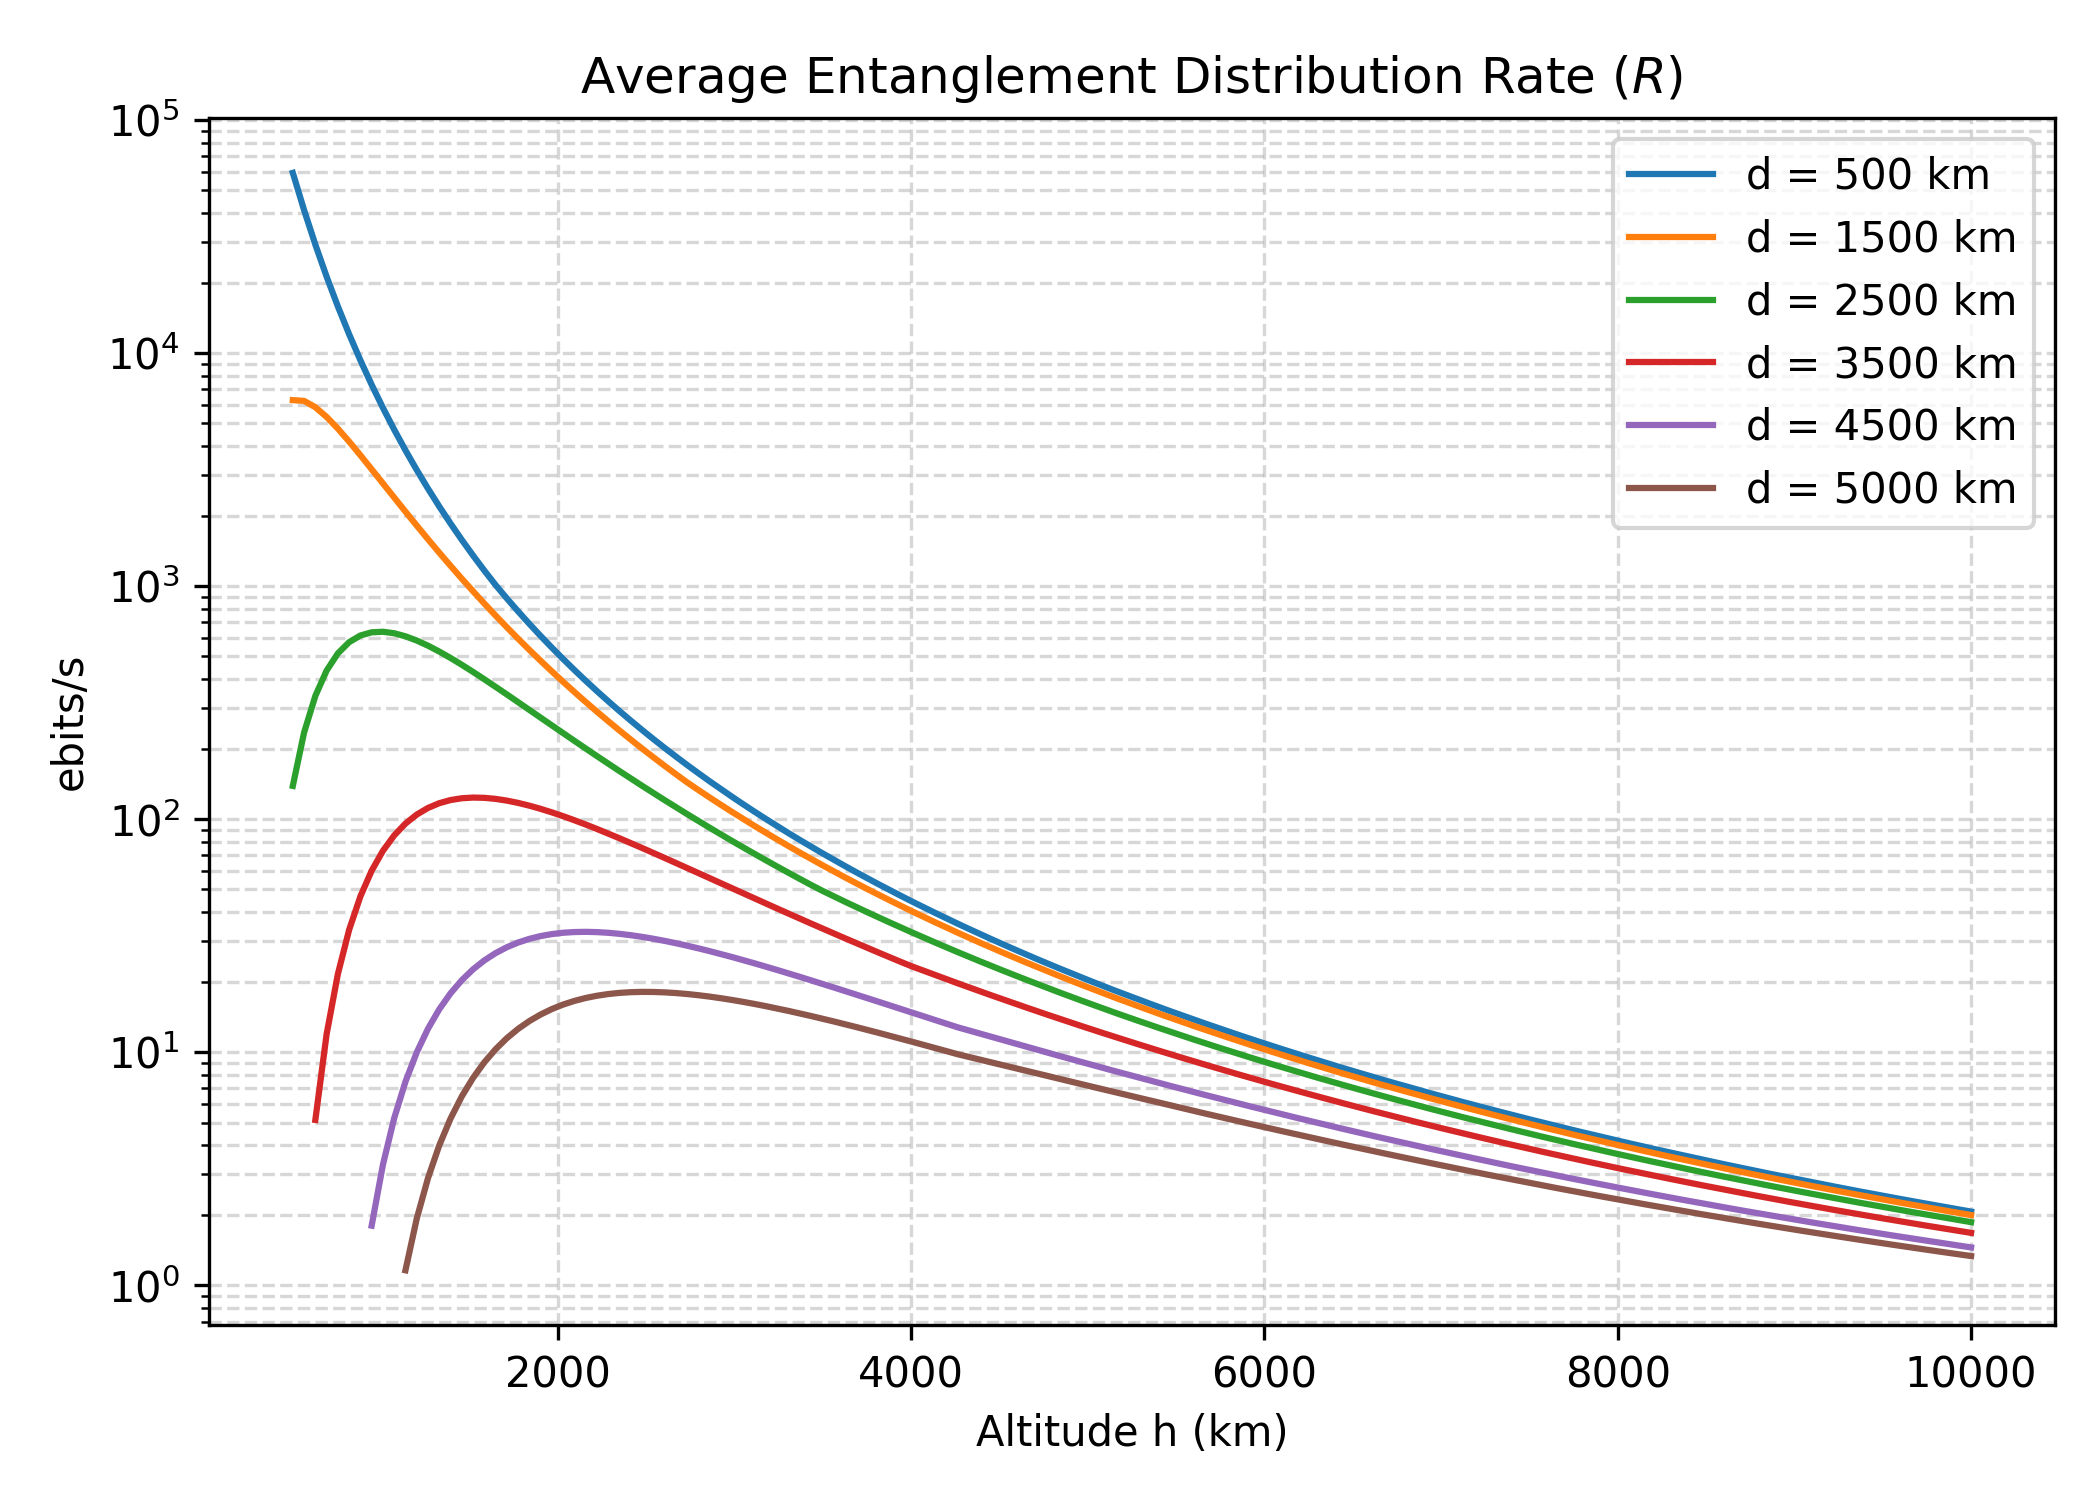
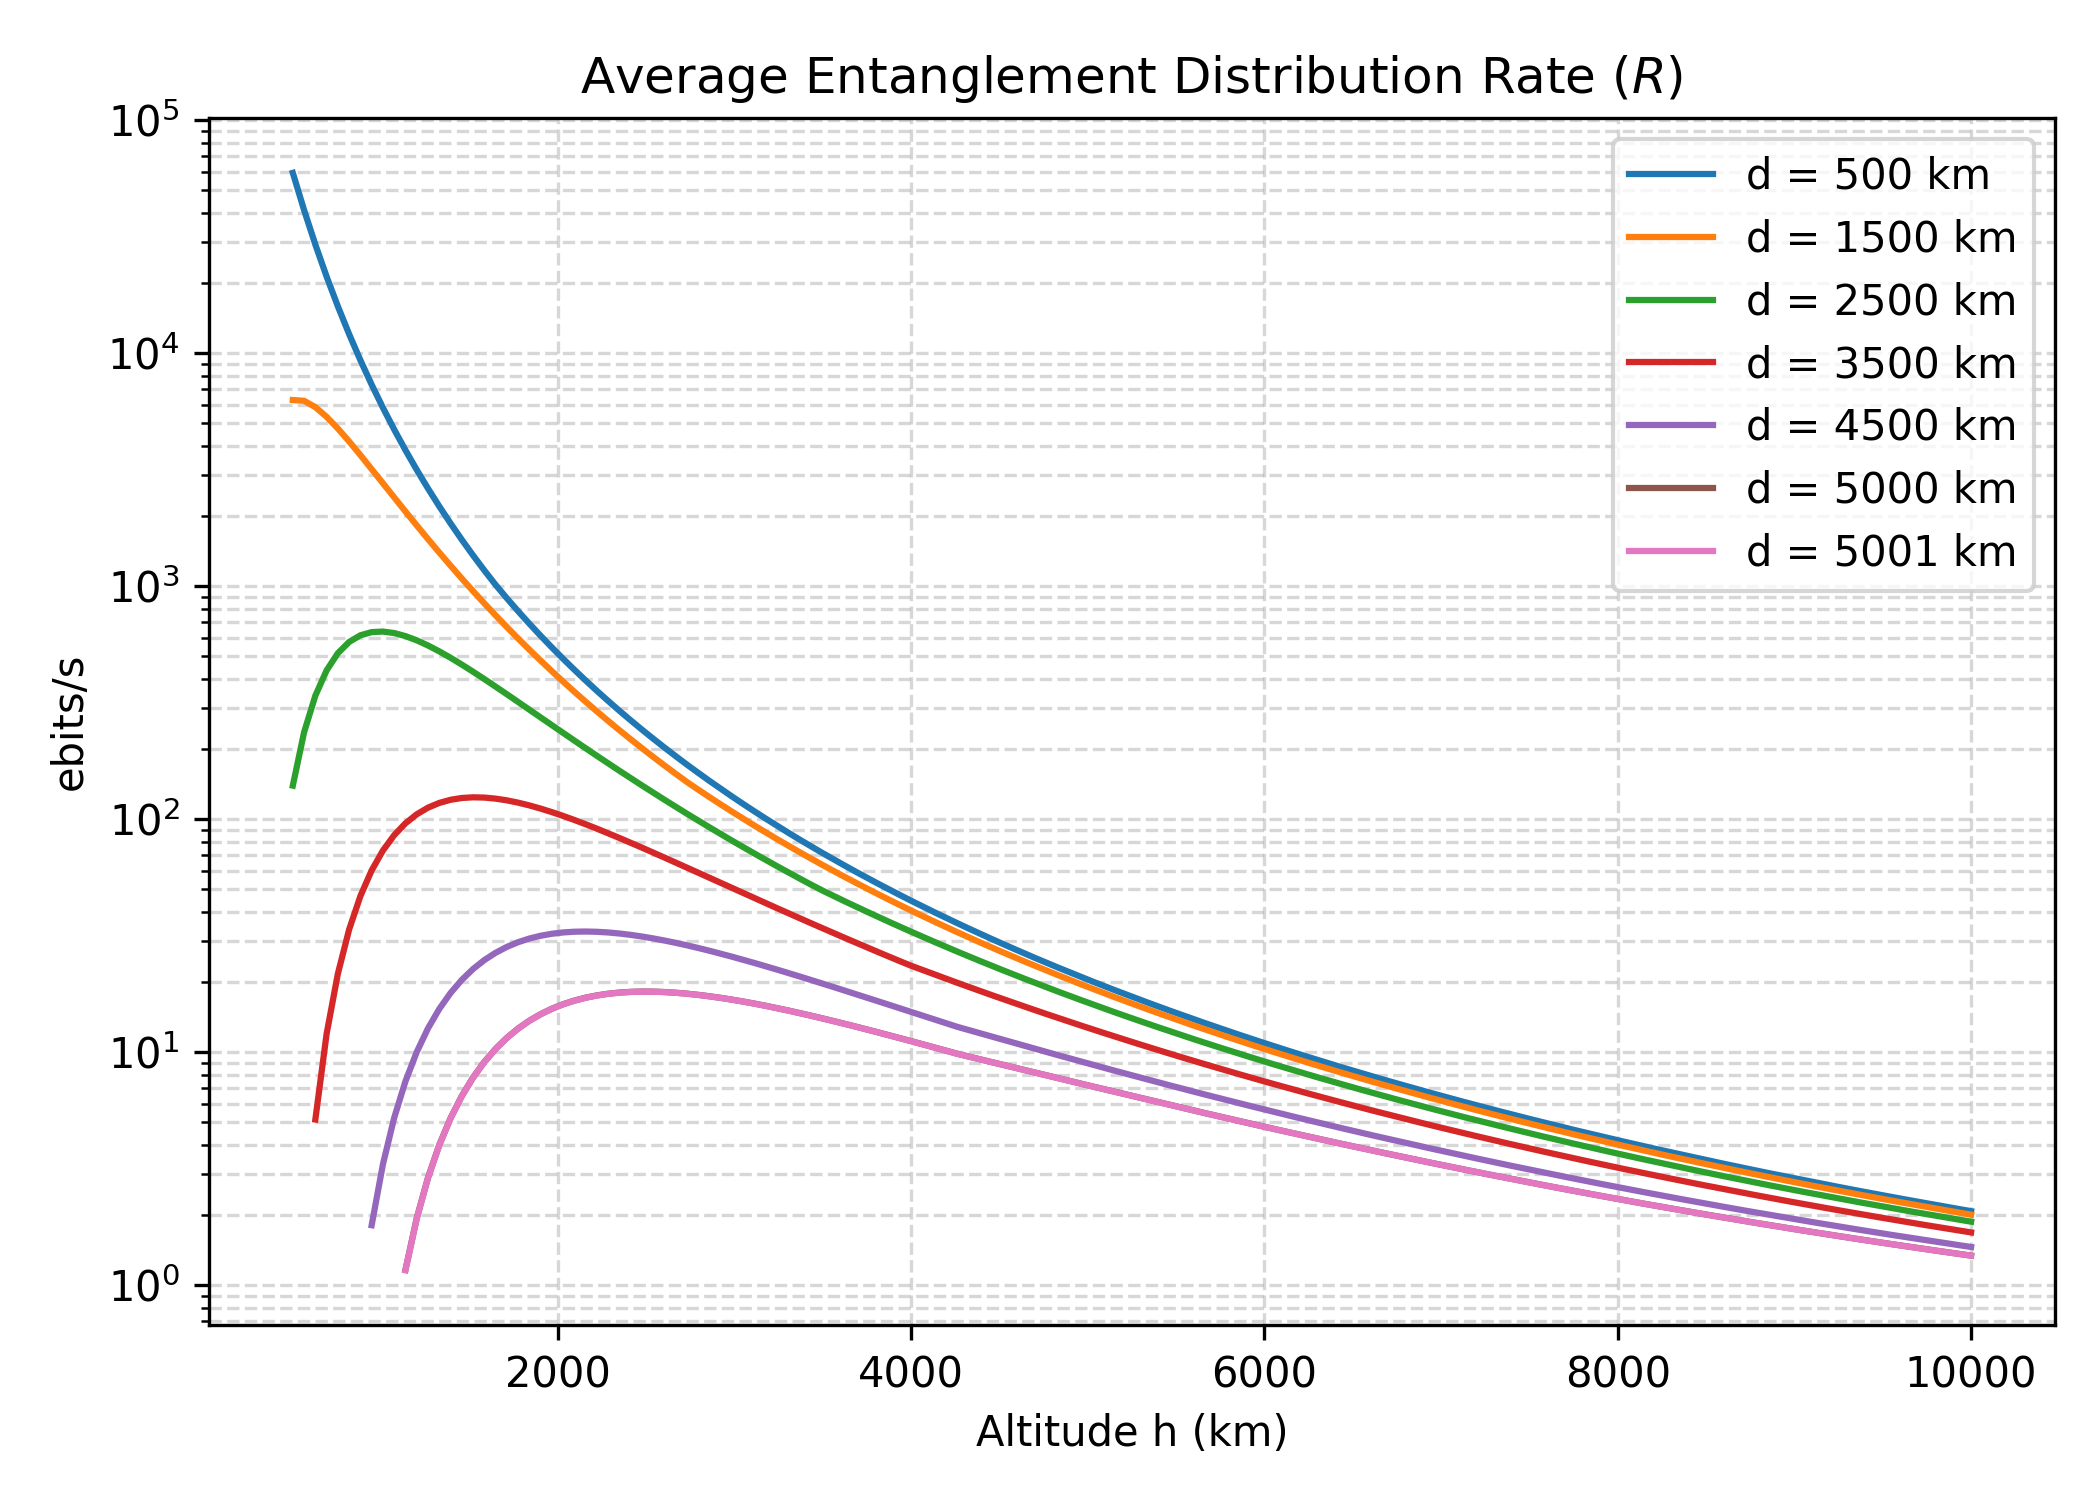
cleaned up code

diff --git a/main.py b/main.py
@@ -1,203 +1,187 @@
+import os
+import copy
+import warnings
 import numpy as np
 import matplotlib
+
 matplotlib.use('Agg')  # Required for headless execution in Docker
 import matplotlib.pyplot as plt
-import os
-import warnings
-import copy
-
 
 # Suppress expected numpy warnings when masking invalid orbital parameters
 warnings.filterwarnings("ignore", category=RuntimeWarning)
 
-# Create output directory
-os.makedirs('output', exist_ok=True)
-
-# --- Foundational Constants (Matched to Table 3 of the paper) ---
-RE = 6371.0  # Earth radius in km
-R_source = 1e9  # Raw entanglement generation rate (ebits/s)
-wavelength = 810e-9  # Optical transmission wavelength (m)
-w0 = 0.025  # Initial Gaussian beam waist (m)
-r_rec = 0.75  # Receiver telescope radius (m)
-eta_atm_zen = 0.5  # Baseline atmospheric transmittance at zenith
-elevation_cutoff = np.radians(10)  # Minimum elevation to avoid heavy atmospheric noise
-MIN_TRANSMITTANCE = 1e-9  # Equivalent to the 90 dB maximum optical loss limit
-ORBITAL_STEPS = 5000      # Number of discretization steps for the satellite pass
+# --- Physical & Simulation Constants ---
+RE = 6371.0  # Earth radius (km)
+R_SOURCE = 1e9  # Raw entanglement generation rate (ebits/s)
+WAVELENGTH = 810e-9  # Optical transmission wavelength (m)
+W0 = 0.025  # Initial Gaussian beam waist (m)
+R_REC = 0.75  # Receiver telescope radius (m)
+ETA_ATM_ZEN = 0.5  # Baseline atmospheric transmittance at zenith
+ELEVATION_CUTOFF = np.radians(10)  # Min elevation to avoid heavy atmospheric noise
+MIN_TRANSMITTANCE = 1e-9  # 90 dB maximum optical loss limit
+ORBITAL_STEPS = 5000  # Pass discretization resolution
 
 
 def calculate_metrics(h, d):
     """
-    Simulates the orbital mechanics and optical channel properties.
-    Returns: N_opt (minimum required satellites), C (cost-efficiency), and avg_rate (R).
+    Simulate orbital mechanics and optical channel properties for a satellite pass.
+    Returns: (N_opt, C, avg_rate)
     """
     Rs = RE + h
 
-    # Calculate the maximum angle a satellite can cover on the Earth's surface
-    val = (RE / Rs) * np.cos(elevation_cutoff)
+    # Max angle satellite can cover on Earth's surface
+    val = (RE / Rs) * np.cos(ELEVATION_CUTOFF)
     if val > 1.0:
         return np.nan, np.nan, np.nan
+
     sat_angle = np.arcsin(val)
-    theta_cov = np.pi / 2 - elevation_cutoff - sat_angle
-
+    theta_cov = np.pi / 2 - ELEVATION_CUTOFF - sat_angle
     d_ang = d / RE
-    if d_ang >= 2 * theta_cov:
-        return np.nan, np.nan, np.nan  # Geometric failure: cannot see both stations
 
-    # Geometric integration over the satellite pass
+    if d_ang >= 2 * theta_cov:
+        return np.nan, np.nan, np.nan  # Stations not mutually visible
+
+    # Integrate over the visible geometric pass
     phi_max_geo = theta_cov - d_ang / 2
     phis = np.linspace(-phi_max_geo, phi_max_geo, ORBITAL_STEPS)
 
-    # Instantaneous angular distances
     cos_theta_1 = np.cos(phis - d_ang / 2)
     cos_theta_2 = np.cos(phis + d_ang / 2)
 
-    # Instantaneous slant distances (converted to meters)
     L1 = np.sqrt(RE ** 2 + Rs ** 2 - 2 * RE * Rs * cos_theta_1) * 1000
     L2 = np.sqrt(RE ** 2 + Rs ** 2 - 2 * RE * Rs * cos_theta_2) * 1000
 
-    # Zenith angles for atmospheric attenuation
     cos_zeta_1 = (Rs ** 2 - RE ** 2 - (L1 / 1000) ** 2) / (2 * RE * (L1 / 1000))
     cos_zeta_2 = (Rs ** 2 - RE ** 2 - (L2 / 1000) ** 2) / (2 * RE * (L2 / 1000))
 
     sec_zeta_1 = 1.0 / np.clip(cos_zeta_1, 0.01, 1.0)
     sec_zeta_2 = 1.0 / np.clip(cos_zeta_2, 0.01, 1.0)
 
-    eta_atm_1 = eta_atm_zen ** sec_zeta_1
-    eta_atm_2 = eta_atm_zen ** sec_zeta_2
+    eta_atm_1 = ETA_ATM_ZEN ** sec_zeta_1
+    eta_atm_2 = ETA_ATM_ZEN ** sec_zeta_2
 
-    # Free-space diffraction beam spreading
-    W_L1 = wavelength * L1 / (np.pi * w0)
-    W_L2 = wavelength * L2 / (np.pi * w0)
+    W_L1 = WAVELENGTH * L1 / (np.pi * W0)
+    W_L2 = WAVELENGTH * L2 / (np.pi * W0)
 
-    eta_fs_1 = 1 - np.exp(-2 * r_rec ** 2 / W_L1 ** 2)
-    eta_fs_2 = 1 - np.exp(-2 * r_rec ** 2 / W_L2 ** 2)
+    eta_fs_1 = 1 - np.exp(-2 * R_REC ** 2 / W_L1 ** 2)
+    eta_fs_2 = 1 - np.exp(-2 * R_REC ** 2 / W_L2 ** 2)
 
-    # 1. Calculate total optical transmittance
+    # Total transmission bounded by 90dB optical limit
     eta_tot = eta_fs_1 * eta_atm_1 * eta_fs_2 * eta_atm_2
-
     valid_indices = np.where(eta_tot >= MIN_TRANSMITTANCE)[0]
 
-    # 3. If no positions are valid, the satellite is optically useless
     if len(valid_indices) == 0:
         return np.nan, np.nan, np.nan
 
-        # 4. Shrink the coverage footprint to ONLY the valid optical range
     effective_phi_max = np.max(np.abs(phis[valid_indices]))
-
-    # Prevent division by zero if the valid window is microscopic
     if effective_phi_max < 1e-6:
         return np.nan, np.nan, np.nan
 
-    # 5. Calculate N_opt using the new, optically-restricted footprint!
     N_opt = np.ceil(8.0 / (effective_phi_max) ** 2)
-
-    # Compute instantaneous successful heralding rate only for valid positions
-    rate_inst = R_source * eta_tot[valid_indices]
+    rate_inst = R_SOURCE * eta_tot[valid_indices]
 
     avg_rate = np.mean(rate_inst)
     C = avg_rate / N_opt
 
     return N_opt, C, avg_rate
 
-# =====================================================================
-# Phase 1: Reproduce Separated 1D Profile Plots
-# =====================================================================
-print("Generating Separated 1D Profile Plots...")
-distances = [500, 1500, 2500, 3500, 4500, 5000]
-altitudes = np.linspace(500, 10000, 150)
 
-# Pre-calculate data
-all_data = []
-for d in distances:
-    n_opts, cs, rs = [], [], []
-    for h in altitudes:
-        n_opt, c, r = calculate_metrics(h, d)
-        n_opts.append(n_opt)
-        cs.append(c)
-        rs.append(r)
-    all_data.append((d, n_opts, cs, rs))
+def generate_1d_profiles(out_dir):
+    print("Generating Separated 1D Profile Plots...")
+    distances = [500, 1500, 2500, 3500, 4500, 5000]
+    altitudes = np.linspace(500, 10000, 150)
 
-# Plot configurations with descriptive titles
-plot_configs = [
-    (0, r'Minimum Satellites for Continuous Coverage ($N_{opt}$)', 'Satellites Needed', '1D_N_opt.png'),
-    (1, r'Cost-Efficiency: Entanglement Rate per Satellite ($C$)', 'ebits/s/sat', '1D_C_hd.png'),
-    (2, r'Average Entanglement Distribution Rate ($R$)', 'ebits/s', '1D_Rate.png')
-]
+    all_data = []
+    for d in distances:
+        n_opts, cs, rs = [], [], []
+        for h in altitudes:
+            n, c, r = calculate_metrics(h, d)
+            n_opts.append(n)
+            cs.append(c)
+            rs.append(r)
+        all_data.append((d, n_opts, cs, rs))
 
-# Generate a separate file for each figure of merit
-for idx, title, ylabel, filename in plot_configs:
-    plt.figure(figsize=(7, 5))
-    for d, n_opts, cs, rs in all_data:
-        data = [n_opts, cs, rs][idx]
-        plt.plot(altitudes, data, label=f'd = {d} km')
+    plot_configs = [
+        (0, r'Minimum Satellites for Continuous Coverage ($N_{opt}$)', 'Satellites Needed', '1D_N_opt.png'),
+        (1, r'Cost-Efficiency: Entanglement Rate per Satellite ($C$)', 'ebits/s/sat', '1D_C_hd.png'),
+        (2, r'Average Entanglement Distribution Rate ($R$)', 'ebits/s', '1D_Rate.png')
+    ]
 
-    plt.yscale('log')
-    plt.xlabel('Altitude h (km)')
-    plt.ylabel(ylabel)
-    plt.title(title)
-    plt.grid(True, which="both", ls="--", alpha=0.5)
-    plt.legend()
-    plt.tight_layout()
-    plt.savefig(f'output/{filename}', dpi=300)
-    plt.close()
+    for idx, title, ylabel, filename in plot_configs:
+        plt.figure(figsize=(7, 5))
+        for d, n_opts, cs, rs in all_data:
+            data = [n_opts, cs, rs][idx]
+            plt.plot(altitudes, data, label=f'd = {d} km')
 
-print("Phase 1 complete: Separated 1D plots saved.")
-
-# =====================================================================
-# Phase 2: Black-and-White Bivariate Heatmaps
-# =====================================================================
-print("Generating Black-and-White Heatmaps...")
-d_range = np.linspace(100, 5000, 100)
-h_range = np.linspace(500, 10000, 100)
-D_mesh, H_mesh = np.meshgrid(d_range, h_range)
-
-N_opt_map, C_map, R_map = np.zeros_like(D_mesh), np.zeros_like(D_mesh), np.zeros_like(D_mesh)
-
-for i in range(D_mesh.shape[0]):
-    for j in range(D_mesh.shape[1]):
-        n_opt, c, r = calculate_metrics(H_mesh[i, j], D_mesh[i, j])
-        N_opt_map[i, j] = n_opt
-        C_map[i, j] = c
-        R_map[i, j] = r
-
-import copy
+        plt.yscale('log')
+        plt.xlabel('Altitude h (km)')
+        plt.ylabel(ylabel)
+        plt.title(title)
+        plt.grid(True, which="both", ls="--", alpha=0.5)
+        plt.legend()
+        plt.tight_layout()
+        plt.savefig(os.path.join(out_dir, filename), dpi=300)
+        plt.close()
 
 
-def plot_bw_heatmap(data, title, filename):
-    # Made the figure slightly taller to comfortably fit the text
+def plot_bw_heatmap(X, Y, data, title, filepath):
     plt.figure(figsize=(8, 6.5))
 
-    # Grab the grayscale colormap and explicitly set 'bad' (NaN) values to faint pink
+    # Mark NaN regions (geometric/optical failures) distinctly
     cmap = copy.copy(plt.get_cmap('gray'))
     cmap.set_bad(color='#ffcccc')
 
-    plt.pcolormesh(D_mesh, H_mesh, data, cmap=cmap, shading='auto')
+    plt.pcolormesh(X, Y, data, cmap=cmap, shading='auto')
     plt.colorbar(label=title)
-
     plt.xlabel('Ground Distance d (km)')
     plt.ylabel('Altitude h (km)')
     plt.title(title)
 
-    # --- NEW: Add the explanatory note ---
     note = ("Note: The pink region represents configurations where continuous coverage is\n"
             "geometrically impossible or optical loss exceeds the 90 dB threshold.")
-
-    # Place text at the bottom center (x=0.5, y=-0.05 relative to the figure)
     plt.figtext(0.5, -0.05, note, ha='center', fontsize=9, style='italic', color='#444444')
 
-    # bbox_inches='tight' is crucial here! It forces Matplotlib to expand
-    # the saved image borders to include the text we just placed outside the main plot.
-    plt.savefig(f'output/{filename}', dpi=300, bbox_inches='tight')
+    plt.savefig(filepath, dpi=300, bbox_inches='tight')
     plt.close()
 
 
-# Applying descriptive titles to the heatmaps (keeping the Log10 note for mathematical accuracy)
-plot_bw_heatmap(np.log10(np.where(N_opt_map > 0, N_opt_map, np.nan)),
-                r'Log$_{10}$ [ Minimum Satellites Required ($N_{opt}$) ]', 'heatmap_N_opt.png')
+def generate_heatmaps(out_dir):
+    print("Generating Black-and-White Heatmaps...")
+    d_range = np.linspace(100, 5000, 100)
+    h_range = np.linspace(500, 10000, 100)
+    D_mesh, H_mesh = np.meshgrid(d_range, h_range)
 
-plot_bw_heatmap(np.log10(np.where(C_map > 0, C_map, np.nan)),
-                r'Log$_{10}$ [ Cost-Efficiency ($C$) ]', 'heatmap_C.png')
+    N_opt_map = np.zeros_like(D_mesh)
+    C_map = np.zeros_like(D_mesh)
+    R_map = np.zeros_like(D_mesh)
 
-plot_bw_heatmap(np.log10(np.where(R_map > 0, R_map, np.nan)),
-                r'Log$_{10}$ [ Average Entanglement Rate ($R$) ]', 'heatmap_R.png')
-print("Simulation complete. Plots saved to /output.")
+    for i in range(D_mesh.shape[0]):
+        for j in range(D_mesh.shape[1]):
+            n, c, r = calculate_metrics(H_mesh[i, j], D_mesh[i, j])
+            N_opt_map[i, j] = n
+            C_map[i, j] = c
+            R_map[i, j] = r
+
+    maps = [
+        (N_opt_map, r'Log$_{10}$ [ Minimum Satellites Required ($N_{opt}$) ]', 'heatmap_N_opt.png'),
+        (C_map, r'Log$_{10}$ [ Cost-Efficiency ($C$) ]', 'heatmap_C.png'),
+        (R_map, r'Log$_{10}$ [ Average Entanglement Rate ($R$) ]', 'heatmap_R.png')
+    ]
+
+    for raw_data, title, filename in maps:
+        log_data = np.log10(np.where(raw_data > 0, raw_data, np.nan))
+        filepath = os.path.join(out_dir, filename)
+        plot_bw_heatmap(D_mesh, H_mesh, log_data, title, filepath)
+
+
+def main():
+    out_dir = 'output'
+    os.makedirs(out_dir, exist_ok=True)
+
+    generate_1d_profiles(out_dir)
+    generate_heatmaps(out_dir)
+    print(f"Simulation complete. Plots saved to /{out_dir}.")
+
+
+if __name__ == "__main__":
+    main()